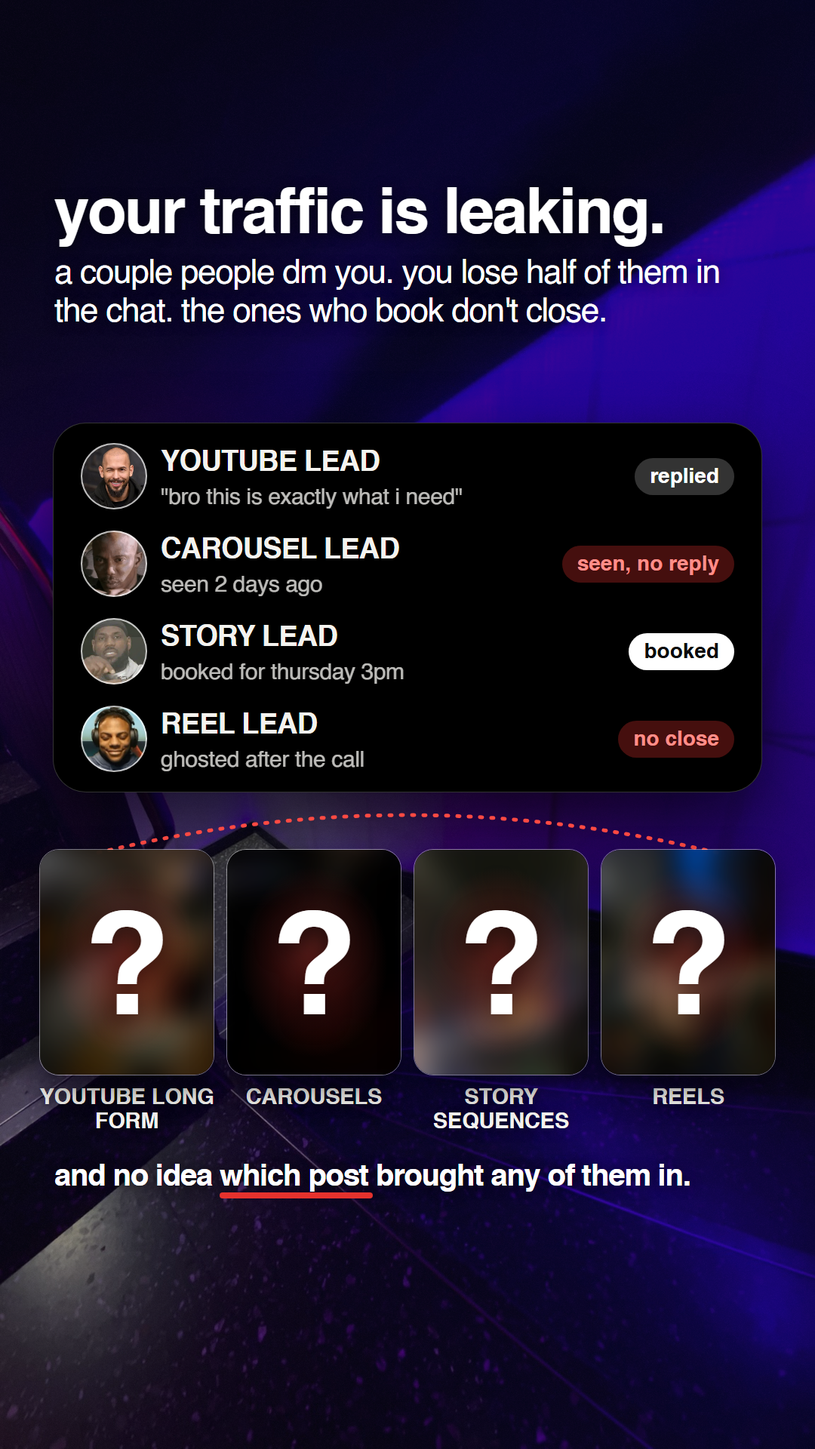
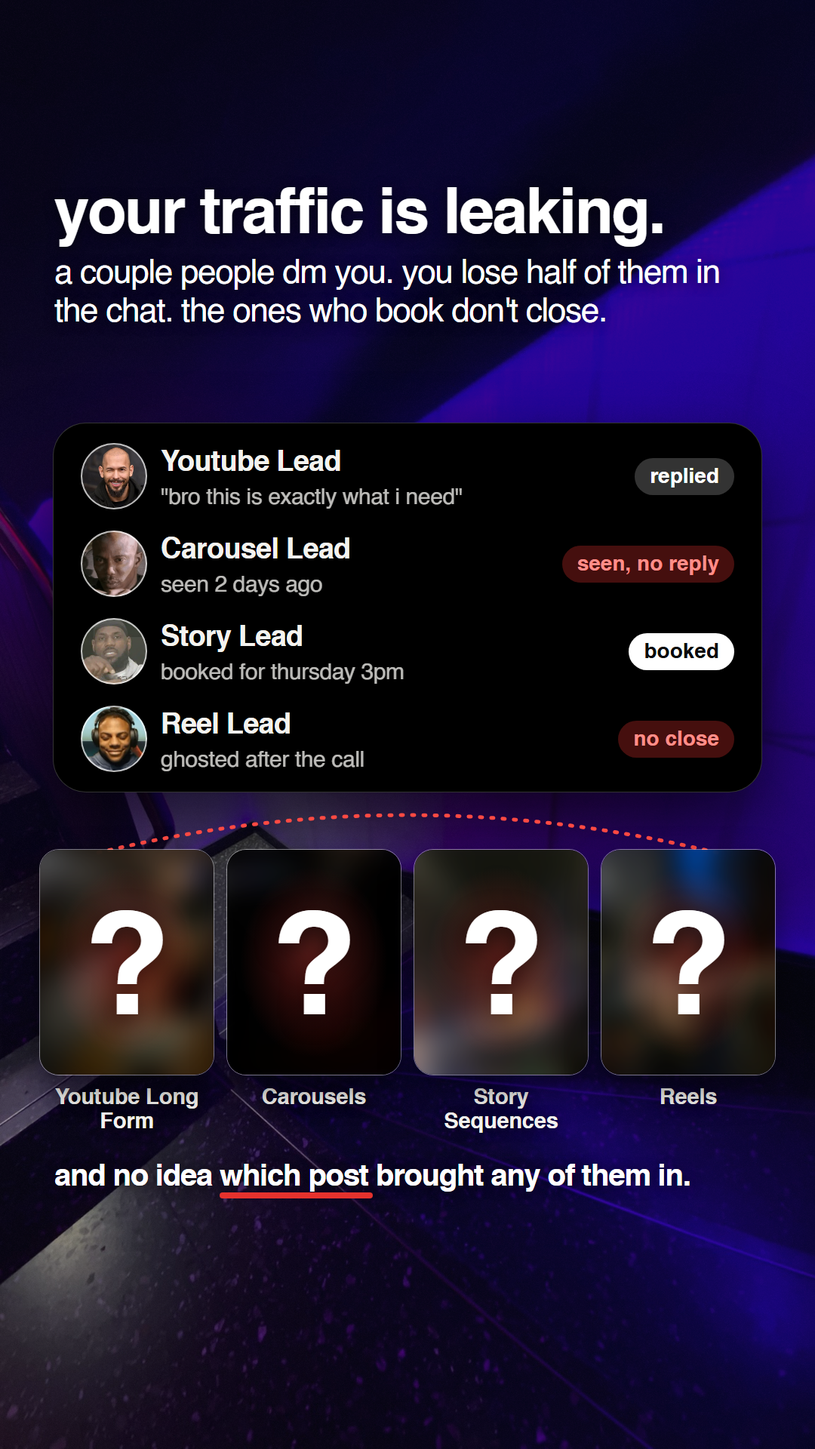
auto: checkpoint 2026-10-08 15:59:18

diff --git a/output/highlight-saas/claude-v2/r25_05.html b/output/highlight-saas/claude-v2/r25_05.html
@@ -1,0 +1,11 @@
+<!doctype html><meta charset="utf-8"><style>
+*{margin:0;padding:0;box-sizing:border-box}
+html,body{width:1080px;height:1920px;overflow:hidden;background:#000;font-family:Helvetica,Arial,sans-serif;color:#f4f3ef}
+.bg{position:absolute;inset:0;background-size:cover}
+.abs{position:absolute}
+.glow{position:absolute;inset:0;background:
+ radial-gradient(900px 700px at -8% 16%,rgba(138,75,63,.30),transparent 62%),
+ radial-gradient(900px 800px at 108% 66%,rgba(77,63,104,.26),transparent 60%)}
+b{font-weight:700}
+.label{font-size:28px;letter-spacing:.14em;text-transform:uppercase;color:#a9aaae;font-weight:700}
+</style><body><div class="bg" style="background-image:url('file:///C:/Users/Abdullah/Desktop/Pulsify-Brain/output/highlight-saas/claude-v2/img/r18_05.png')"></div><div class="abs" style="inset:0;background:rgba(11,12,13,.42)"></div><div class="abs" style="left:72px;top:236px;width:940px;"><div style="font-family:Helvetica,Arial,sans-serif;font-weight:700;color:#fff;font-size:84px;line-height:1.0;letter-spacing:-2.5px;margin-top:0px;text-shadow:0 2px 16px rgba(0,0,0,.55);">your traffic is leaking.</div><div style="font-family:Helvetica,Arial,sans-serif;font-weight:700;color:#fff;font-size:44px;line-height:1.16;letter-spacing:-1.3px;margin-top:14px;text-shadow:0 2px 16px rgba(0,0,0,.55);font-weight:400">a couple people dm you. you lose half of them in the chat. the ones who book don't close.</div></div><div class="abs" style="left:70px;top:560px;width:940px;"><div style="border-radius:44px;background:#000;border:1.5px solid rgba(255,255,255,.2);padding:12px 36px;box-shadow:0 40px 90px rgba(0,0,0,.6)"><div style="display:flex;align-items:center;gap:18px;padding:14px 0"><div style="width:88px;height:88px;border-radius:50%;background:#222 url(file:///C:/Users/Abdullah/Desktop/Pulsify-Brain/output/highlight-saas/claude-v2/img/av_6.png) 53% 38%/cover no-repeat;border:2px solid rgba(255,255,255,.7);flex:none;box-shadow:0 6px 16px rgba(0,0,0,.4)"></div><div style="flex:1"><div style="font-size:38px;font-weight:700;letter-spacing:-.8px;text-transform:capitalize">youtube lead</div><div style="font-size:30px;opacity:.78;margin-top:6px;letter-spacing:-.4px">"bro this is exactly what i need"</div></div><div style="padding:6px 20px 10px;border-radius:999px;background:rgba(255,255,255,.2);color:#fff;font-size:28px;font-weight:700;white-space:nowrap">replied</div></div><div style="display:flex;align-items:center;gap:18px;padding:14px 0"><div style="width:88px;height:88px;border-radius:50%;background:#222 url(file:///C:/Users/Abdullah/Desktop/Pulsify-Brain/output/highlight-saas/claude-v2/img/av_5.png) 56% 30%/190% no-repeat;border:2px solid rgba(255,255,255,.7);flex:none;box-shadow:0 6px 16px rgba(0,0,0,.4)"></div><div style="flex:1"><div style="font-size:38px;font-weight:700;letter-spacing:-.8px;text-transform:capitalize">carousel lead</div><div style="font-size:30px;opacity:.78;margin-top:6px;letter-spacing:-.4px">seen 2 days ago</div></div><div style="padding:6px 20px 10px;border-radius:999px;background:rgba(229,50,45,.3);color:#ff8e89;font-size:28px;font-weight:700;white-space:nowrap">seen, no reply</div></div><div style="display:flex;align-items:center;gap:18px;padding:14px 0"><div style="width:88px;height:88px;border-radius:50%;background:#222 url(file:///C:/Users/Abdullah/Desktop/Pulsify-Brain/output/highlight-saas/claude-v2/img/av_7.png) 50% 8%/135% no-repeat;border:2px solid rgba(255,255,255,.7);flex:none;box-shadow:0 6px 16px rgba(0,0,0,.4)"></div><div style="flex:1"><div style="font-size:38px;font-weight:700;letter-spacing:-.8px;text-transform:capitalize">story lead</div><div style="font-size:30px;opacity:.78;margin-top:6px;letter-spacing:-.4px">booked for thursday 3pm</div></div><div style="padding:6px 20px 10px;border-radius:999px;background:#fff;color:#0b0c0d;font-size:28px;font-weight:700;white-space:nowrap">booked</div></div><div style="display:flex;align-items:center;gap:18px;padding:14px 0"><div style="width:88px;height:88px;border-radius:50%;background:#222 url(file:///C:/Users/Abdullah/Desktop/Pulsify-Brain/output/highlight-saas/claude-v2/img/av_8.png) 50% 42%/cover no-repeat;border:2px solid rgba(255,255,255,.7);flex:none;box-shadow:0 6px 16px rgba(0,0,0,.4)"></div><div style="flex:1"><div style="font-size:38px;font-weight:700;letter-spacing:-.8px;text-transform:capitalize">reel lead</div><div style="font-size:30px;opacity:.78;margin-top:6px;letter-spacing:-.4px">ghosted after the call</div></div><div style="padding:6px 20px 10px;border-radius:999px;background:rgba(229,50,45,.3);color:#ff8e89;font-size:28px;font-weight:700;white-space:nowrap">no close</div></div></div></div><svg class="abs" style="left:0;top:1060px" width="1080" height="80" viewBox="0 0 1080 80"><path d="M130 70 Q 540 -30 950 70" fill="none" stroke="#ff4a43" stroke-width="5" stroke-dasharray="3 12" stroke-linecap="round"/></svg><div class="abs" style="left:30px;top:1125px;width:1020px;"><div style="display:flex;gap:16px;justify-content:center"><div style="width:232px"><div style="width:232px;height:300px;border-radius:26px;position:relative;overflow:hidden;border:1.5px solid rgba(255,255,255,.45);box-shadow:0 18px 40px rgba(0,0,0,.5)"><div style="position:absolute;inset:-30px;background:url(file:///C:/Users/Abdullah/Desktop/Pulsify-Brain/output/highlight-saas/claude-v2/img/r18_p0.png) center/cover;filter:blur(18px) brightness(.8)"></div><div style="position:absolute;inset:0;background:radial-gradient(closest-side,rgba(229,50,45,.35),transparent 85%)"></div><div style="position:absolute;inset:0;display:grid;place-items:center;font-size:190px;font-weight:700;color:#fff;text-shadow:0 6px 30px rgba(0,0,0,.5)">?</div></div><div style="text-align:center;font-size:29px;font-weight:700;letter-spacing:-.2px;line-height:1.1;margin-top:12px;text-shadow:0 2px 16px rgba(0,0,0,.55)">Youtube Long Form</div></div><div style="width:232px"><div style="width:232px;height:300px;border-radius:26px;position:relative;overflow:hidden;border:1.5px solid rgba(255,255,255,.45);box-shadow:0 18px 40px rgba(0,0,0,.5)"><div style="position:absolute;inset:-30px;background:url(file:///C:/Users/Abdullah/Desktop/Pulsify-Brain/output/highlight-saas/claude-v2/img/r18_p1.png) center/cover;filter:blur(18px) brightness(.8)"></div><div style="position:absolute;inset:0;background:radial-gradient(closest-side,rgba(229,50,45,.35),transparent 85%)"></div><div style="position:absolute;inset:0;display:grid;place-items:center;font-size:190px;font-weight:700;color:#fff;text-shadow:0 6px 30px rgba(0,0,0,.5)">?</div></div><div style="text-align:center;font-size:29px;font-weight:700;letter-spacing:-.2px;line-height:1.1;margin-top:12px;text-shadow:0 2px 16px rgba(0,0,0,.55)">Carousels</div></div><div style="width:232px"><div style="width:232px;height:300px;border-radius:26px;position:relative;overflow:hidden;border:1.5px solid rgba(255,255,255,.45);box-shadow:0 18px 40px rgba(0,0,0,.5)"><div style="position:absolute;inset:-30px;background:url(file:///C:/Users/Abdullah/Desktop/Pulsify-Brain/output/highlight-saas/claude-v2/img/r18_p2.png) center/cover;filter:blur(18px) brightness(.8)"></div><div style="position:absolute;inset:0;background:radial-gradient(closest-side,rgba(229,50,45,.35),transparent 85%)"></div><div style="position:absolute;inset:0;display:grid;place-items:center;font-size:190px;font-weight:700;color:#fff;text-shadow:0 6px 30px rgba(0,0,0,.5)">?</div></div><div style="text-align:center;font-size:29px;font-weight:700;letter-spacing:-.2px;line-height:1.1;margin-top:12px;text-shadow:0 2px 16px rgba(0,0,0,.55)">Story Sequences</div></div><div style="width:232px"><div style="width:232px;height:300px;border-radius:26px;position:relative;overflow:hidden;border:1.5px solid rgba(255,255,255,.45);box-shadow:0 18px 40px rgba(0,0,0,.5)"><div style="position:absolute;inset:-30px;background:url(file:///C:/Users/Abdullah/Desktop/Pulsify-Brain/output/highlight-saas/claude-v2/img/r18_p3.png) center/cover;filter:blur(18px) brightness(.8)"></div><div style="position:absolute;inset:0;background:radial-gradient(closest-side,rgba(229,50,45,.35),transparent 85%)"></div><div style="position:absolute;inset:0;display:grid;place-items:center;font-size:190px;font-weight:700;color:#fff;text-shadow:0 6px 30px rgba(0,0,0,.5)">?</div></div><div style="text-align:center;font-size:29px;font-weight:700;letter-spacing:-.2px;line-height:1.1;margin-top:12px;text-shadow:0 2px 16px rgba(0,0,0,.55)">Reels</div></div></div></div><div class="abs" style="left:72px;top:1535px;width:960px;"><div style="font-family:Helvetica,Arial,sans-serif;font-weight:700;color:#fff;font-size:40px;line-height:1.1;letter-spacing:-1.2px;margin-top:0px;text-shadow:0 2px 16px rgba(0,0,0,.55);">and no idea <span style="position:relative;display:inline-block">which post<span style="position:absolute;left:0;right:-6px;bottom:-9px;height:8px;background:#e5322d;border-radius:4px"></span></span> brought any of them in.</div></div></body>

diff --git a/output/highlight-saas/claude-v2/slides_r25.py b/output/highlight-saas/claude-v2/slides_r25.py
@@ -1,0 +1,225 @@
+"""Round 8 (founder notes after round 7). Overrides on slides_r7: slide 2 bullets + one-line copy, red chart on 3, no splitters on 4,
+reworded 5 with alias inbox, sans 7, flat 8, 'yo' greeting on 10, stacked red-wash 11, flat red tracking 12, logo-free 13/14,
+subtle logo as the first layer under everything else. Run: python slides_r8.py [02 03 ...]"""
+import sys
+from engine import *
+import slides_r7 as R7
+import slides_r5 as R5
+from slides_r7 import *
+from slides_r6 import brand, pngtile, coin, MARKU
+from slides_r5 import bz, rul, redw, carry, dim_photo, SH, SANS
+from slides_r4 import U, bgdiv, top, bottom, check_, xmark_
+import slides_r4 as R4
+
+RED2 = '#ff4a43'
+
+
+def logo_layer(body):
+    """Subtle logo as the first layer above the photo, below everything else."""
+    i = body.index('</div>') + len('</div>')
+    return body
+
+
+def ulb(t, size=52, weight=700, color='#fff'):
+    return (f'<span style="position:relative;display:inline-block;font-size:{size}px;font-weight:{weight};letter-spacing:{-size*.03:.1f}px;color:{color}">{t}'
+            f'<span style="position:absolute;left:0;right:0;bottom:-8px;height:7px;background:{RG};border-radius:4px"></span></span>')
+
+
+# ------------------------------------------------------------------ 02
+def s02():
+    img = prep_photo(20, 'r18_02.png', focus=(.5, .5))
+    bullets = ''.join(f'<div style="display:flex;align-items:center;gap:16px;margin-top:20px"><div style="width:14px;height:14px;border-radius:50%;background:{RED};flex:none"></div>{ulb(t, 46)}</div>'
+                      for t in ('trading', 'tiktok shop', 'e-commerce', 'amazon fba'))
+    # info groups, bigger instagram glyph
+    size = 128
+    yt = brand('youtube', '#FF0000', size=size)
+    ig = brand('instagram', 'linear-gradient(45deg,#f9a03f,#e1306c,#833ab4)', size=size).replace('width="74" height="74"', 'width="104" height="104"')
+    cal = brand('caldotcom', '#111827', size=size)
+    pay = [brand('stripe', '#635BFF', size=size), pngtile(U('whop.png'), size), pngtile(U('fanbasis.png'), size)]
+    groups = [(fan([yt, ig], size), 'content + audience'), (fan([cal, brand('calendly', '#006BFF', size=size)], size), 'sales calls'), (fan(pay, size, w=int(size * 2.05)), 'payments')]
+    info = '<div style="display:flex;gap:34px;align-items:flex-start">' + ''.join(f'<div>{g}<div style="text-align:center;margin-top:10px">{ulb(c, 28, 700)}</div></div>' for g, c in groups) + '</div>'
+    body = bgdiv(img) + top(1100, .7) + bottom(1000, .64)
+    body += at(236, f'<div style="font-size:78px;line-height:1.04;font-weight:700;letter-spacing:-3px;{SH}">you\'re already {R5.rul("good")} at<br>what you do.</div>', width=940)
+    body += at(440, bullets)
+    body += at(800, bz("running your own offer, teaching people exactly what you do, will make you more money than the thing you do now.", 44, lh=1.18, extra='font-weight:400'), width=940)
+    body += at(1030, f'<div style="font-size:50px;font-weight:700;letter-spacing:-2px;white-space:nowrap;{SH}">but {ulb("info is a whole business", 50)} on its own.</div>'
+               + bz("your own offer. your own unique mechanism. your own positioning.", 34, 12, extra='font-weight:400'), width=980)
+    body += at(1210, info)
+    body += at(1510, f'<div style="font-size:46px;font-weight:700;letter-spacing:-1.6px;white-space:nowrap;{SH}">so now you\'re running {ulb("2 businesses", 46)} at once.</div>', width=990)
+    return logo_layer(body)
+
+
+# ------------------------------------------------------------------ 03 (red chart)
+def revenue_red():
+    pts = [(0, 80), (10, 74), (20, 70), (30, 58), (40, 60), (50, 44), (60, 38), (70, 40), (80, 22), (90, 18), (100, 8)]
+    Wc, Hc = 860, 120
+    xy = lambda a, b: (a / 100 * Wc, b / 100 * Hc)
+    path = 'M' + ' L'.join(f'{xy(a,b)[0]:.0f} {xy(a,b)[1]:.0f}' for a, b in pts)
+    bars = ''.join(f'<rect x="{i*43+6}" y="{Hc-20-(8+ (i*7)%34)}" width="26" height="{8+(i*7)%34}" rx="5" fill="rgba(255,255,255,.14)"/>' for i in range(20))
+    return (f'<svg width="{Wc}" height="{Hc+10}" viewBox="0 0 {Wc} {Hc+10}"><defs><linearGradient id="rr" x1="0" y1="0" x2="0" y2="1"><stop offset="0" stop-color="{RED2}" stop-opacity=".55"/><stop offset="1" stop-color="{RED2}" stop-opacity="0"/></linearGradient></defs>{bars}'
+            f'<path d="{path} L{Wc} {Hc} L0 {Hc} Z" fill="url(#rr)"/><path d="{path}" fill="none" stroke="{RED2}" stroke-width="6" stroke-linecap="round" stroke-linejoin="round"/></svg>')
+
+
+def s03():
+    R7.revenue_card = revenue_red
+    return logo_layer(R7.s03())
+
+
+# ------------------------------------------------------------------ 04 (no splitters)
+def s04():
+    img = dim_photo(27, 'r18_04.png', blur=9, dark=.55)
+    items = ["you want to post, but you don't know what to say", "you know what to say, but nobody's watching",
+             "people are watching, but you don't know where to send them", "calls are booked, but you can't tell who's closing and who isn't"]
+    rows = ''.join(f'<div style="display:flex;gap:26px;align-items:flex-start;padding:24px 0">{xmark_(RED)}'
+                   f'<div style="font-size:48px;line-height:1.18;letter-spacing:-1.2px;font-weight:700;width:820px;{SH}">{t}</div></div>' for t in items)
+    body = bgdiv(img) + carry(R7.s03_carry(), 8, .2)
+    body += '<div class="abs" style="inset:0;background:radial-gradient(900px 700px at 100% 100%,rgba(229,50,45,.4),transparent 62%)"></div>'
+    body += at(440, f'<div style="font-size:112px;line-height:1;font-weight:700;letter-spacing:-4.4px;{SH}">it {rbox("breaks", 112, "0 24px 16px", 18)}<br>somewhere:</div>', width=940)
+    body += at(790, rows, width=936)
+    return logo_layer(body)
+
+
+# ------------------------------------------------------------------ 05 (alias inbox + bigger posts)
+SMAP = {'youtube lead': '"bro this is exactly what i need"', 'carousel lead': 'seen 2 days ago', 'story lead': 'booked for thursday 3pm', 'reel lead': 'ghosted after the call'}
+
+
+def s05():
+    img = prep_photo(38, 'r18_05.png', focus=(.5, .5))
+    people = [('youtube lead', 'replied', 'rgba(255,255,255,.2)', '#fff', '#4b5160'), ('carousel lead', 'seen, no reply', 'rgba(229,50,45,.3)', '#ff8e89', '#6a3a3a'),
+              ('story lead', 'booked', '#fff', GRAPH, '#3d4d44'), ('reel lead', 'no close', 'rgba(229,50,45,.3)', '#ff8e89', '#4b4b5c')]
+    grads = {'youtube lead': ('#ff4a43', '#8f1511', '#fff'), 'carousel lead': ('#5fd6a4', '#1f7a56', '#0b0c0d'),
+             'story lead': ('#ffffff', '#8a8d99', '#0b0c0d'), 'reel lead': ('#c9201b', '#1a0707', '#fff')}
+    rows = ''
+    for al, st, bg, fg, avc in people:
+        pic = {'youtube lead': ('av_6.png', '53% 38%', 'cover'), 'carousel lead': ('av_5.png', '56% 30%', '190%'),
+               'story lead': ('av_7.png', '50% 8%', '135%'), 'reel lead': ('av_8.png', '50% 42%', 'cover')}[al]
+        rows += (f'<div style="display:flex;align-items:center;gap:18px;padding:14px 0"><div style="width:88px;height:88px;border-radius:50%;background:#222 url(file:///C:/Users/Abdullah/Desktop/Pulsify-Brain/output/highlight-saas/claude-v2/img/{pic[0]}) {pic[1]}/{pic[2]} no-repeat;'
+                 f'border:2px solid rgba(255,255,255,.7);flex:none;box-shadow:0 6px 16px rgba(0,0,0,.4)"></div>'
+                 f'<div style="flex:1"><div style="font-size:38px;font-weight:700;letter-spacing:-.8px;text-transform:capitalize">{al}</div><div style="font-size:30px;opacity:.78;margin-top:6px;letter-spacing:-.4px">{SMAP[al]}</div></div>'
+                 f'<div style="padding:6px 20px 10px;border-radius:999px;background:{bg};color:{fg};font-size:28px;font-weight:700;white-space:nowrap">{st}</div></div>')
+    labels = ['Youtube Long Form', 'Carousels', 'Story Sequences', 'Reels']
+    posts = ''
+    for i, (pid, lb) in enumerate(zip((20, 31, 37, 41), labels)):
+        pth = prep_photo(pid, f'r18_p{i}.png', focus=(.5, .5))
+        posts += (f'<div style="width:232px"><div style="width:232px;height:300px;border-radius:26px;position:relative;overflow:hidden;border:1.5px solid rgba(255,255,255,.45);box-shadow:0 18px 40px rgba(0,0,0,.5)">'
+                  f'<div style="position:absolute;inset:-30px;background:url(file:///{pth}) center/cover;filter:blur(18px) brightness(.8)"></div>'
+                  f'<div style="position:absolute;inset:0;background:radial-gradient(closest-side,rgba(229,50,45,.35),transparent 85%)"></div>'
+                  f'<div style="position:absolute;inset:0;display:grid;place-items:center;font-size:190px;font-weight:700;color:#fff;text-shadow:0 6px 30px rgba(0,0,0,.5)">?</div></div>'
+                  f'<div style="text-align:center;font-size:29px;font-weight:700;letter-spacing:-.2px;line-height:1.1;margin-top:12px;{SH}">{lb}</div></div>')
+    body = bgdiv(img) + '<div class="abs" style="inset:0;background:rgba(11,12,13,.42)"></div>'
+    body += at(236, bz("your traffic is leaking.", 84, lh=1.0) + bz("a couple people dm you. you lose half of them in the chat. the ones who book don't close.", 44, 14, lh=1.16, extra='font-weight:400'), width=940)
+    body += at(560, f'<div style="border-radius:44px;background:#000;border:1.5px solid rgba(255,255,255,.2);padding:12px 36px;box-shadow:0 40px 90px rgba(0,0,0,.6)">{rows}</div>', left=70, width=940)
+    body += (f'<svg class="abs" style="left:0;top:1060px" width="1080" height="80" viewBox="0 0 1080 80"><path d="M130 70 Q 540 -30 950 70" fill="none" stroke="#ff4a43" stroke-width="5" stroke-dasharray="3 12" stroke-linecap="round"/></svg>')
+    body += at(1125, f'<div style="display:flex;gap:16px;justify-content:center">{posts}</div>', left=30, width=1020)
+    body += at(1535, bz("and no idea " + rul("which post") + " brought any of them in.", 40, lh=1.1), width=960)
+    return logo_layer(body)
+
+
+# ------------------------------------------------------------------ 07 (sans, visible)
+def s07():
+    img = prep_photo(26, 'r18_07.png', focus=(.5, .5))
+    body = bgdiv(img) + top(1300, .75)
+    body += at(250, bz("that's where most people", 74, lh=1.04) + bz(rul("plateau."), 118, 4, lh=1.0, extra='letter-spacing:-5px'), width=960)
+    body += at(640, bz("then they pick the " + redw("main business") + ", because that's what keeps food on the table.", 50, lh=1.14), width=930)
+    body += at(930, bz("and the info side " + rul("dies quietly."), 62, lh=1.1), width=930)
+    body += at(1130, bz("none of that is your fault.", 60, lh=1.1), width=930)
+    return logo_layer(body)
+
+
+# ------------------------------------------------------------------ 08 (flat)
+def s08():
+    img = dim_photo(26, 'r18_08.png', blur=9, dark=.5)
+    def row(rank, wname, num, hot=False):
+        if hot:
+            return (f'<div style="display:flex;align-items:center;gap:20px;border-radius:26px;padding:14px 24px;margin-top:16px;background:linear-gradient(90deg,rgba(229,50,45,.45),rgba(229,50,45,.1));border:2px solid {RED}">'
+                    f'<div style="font-size:34px;font-weight:700;width:60px">new</div><div style="flex:1;font-size:26px;font-weight:700;color:#ffb3af">new face &middot; new idea</div>'
+                    f'<div style="font-size:42px;font-weight:700;letter-spacing:-1.5px">2k <span style="color:{RED2}">&rarr; 18k+</span></div></div>')
+        return (f'<div style="display:flex;align-items:center;gap:20px;padding:12px 8px;border-bottom:1.5px solid rgba(255,255,255,.12)"><div style="font-size:34px;font-weight:700;width:60px;opacity:.7">{rank}</div>'
+                f'<div style="flex:1"><div style="height:14px;width:{wname}%;background:rgba(255,255,255,.55);border-radius:7px"></div></div>'
+                f'<div style="font-size:42px;font-weight:700;letter-spacing:-1.5px;opacity:.9">{num}</div></div>')
+    inner = ('<div style="font-size:26px;font-weight:700;letter-spacing:.14em;text-transform:uppercase;opacity:.7;margin-bottom:6px">top of your niche</div>'
+             + row('#1', 54, '1.4M') + row('#2', 46, '980k') + row('#3', 50, '760k') + row('#4', 42, '540k')
+             + '<div style="display:flex;align-items:center;gap:14px;margin:16px 0 0 70px;opacity:.75"><div style="flex:1;border-top:3px dashed rgba(255,255,255,.4)"></div><div style="font-size:24px;font-weight:700">every month</div><div style="flex:1;border-top:3px dashed rgba(255,255,255,.4)"></div></div>'
+             + row('', 0, '', True))
+    body = bgdiv(img) + top(700, .6)
+    body += '<div class="abs" style="inset:0;background:radial-gradient(900px 600px at 0% 0%,rgba(229,50,45,.35),transparent 62%)"></div>'
+    body += at(232, f'<div style="font-size:84px;line-height:1.02;font-weight:700;letter-spacing:-3.2px;{SH}">here\'s what<br>{rbox("most people miss.", 84, "0 22px 14px", 16)}</div>' + bz("the top of every niche is 3 or 4 names.", 46, 22, extra='font-weight:400'), width=960)
+    body += at(640, inner, width=936)
+    body += at(1190, bz("but every month, a new face breaks in.", 54, lh=1.08)
+               + bz("people follow someone they don't feel " + rul("below."), 52, 26, lh=1.1)
+               + f'<div style="margin-top:26px;font-size:58px;font-weight:700;letter-spacing:-2px;line-height:1.15;{SH}">you don\'t have to be a guru.<br>you just have to sound like {rbox("you.", 58, "0 20px 12px")}</div>', width=960)
+    return logo_layer(body)
+
+
+# ------------------------------------------------------------------ 10 (yo)
+def s10():
+    body = R7.s10().replace('hey, how can i help you today?', 'yo, what are we cooking today?')
+    return logo_layer(body)
+
+
+# ------------------------------------------------------------------ 11 (stacked, red wash, flat)
+def s11():
+    img = dim_photo(49, 'r18_11.png', focus=(.72, .5), blur=8, dark=.55)
+    rows = ''
+    for lab_, line, cash, wd in (('setter', '312 dms &middot; 58 calls booked', '', 100), ('setter', '287 dms &middot; 49 calls booked', '', 84), ('closer', '78 calls &middot; 79% showed &middot; 23% closed', '', 100)):
+        rows += (f'<div style="display:flex;align-items:center;gap:20px;margin-top:24px"><div style="width:58px;height:58px;border-radius:50%;background:rgba(255,255,255,.14);border:1.5px solid rgba(255,255,255,.5);display:grid;place-items:center;flex:none">'
+                 f'<svg width="32" height="32" viewBox="0 0 38 38"><circle cx="19" cy="14" r="7" fill="#fff"/><path d="M5 34q14-22 28 0z" fill="#fff"/></svg></div>'
+                 f'<div style="flex:1"><div style="font-size:32px;font-weight:700;letter-spacing:-.6px">{lab_}</div><div style="font-size:25px;opacity:.8;margin-top:3px">{line}</div>'
+                 f'<div style="height:9px;border-radius:5px;background:rgba(255,255,255,.14);margin-top:9px"><div style="height:9px;border-radius:5px;width:{wd}%;background:{RG}"></div></div></div></div>')
+    body = bgdiv(img)
+    body += '<div class="abs" style="inset:0;background:radial-gradient(1000px 800px at 100% 55%,rgba(229,50,45,.5),transparent 62%),radial-gradient(800px 600px at 0% 100%,rgba(229,50,45,.3),transparent 60%)"></div>'
+    body += at(236, bz("then the sales side.", 84, lh=1.0)
+               + f'<div style="display:flex;gap:18px;align-items:center;margin-top:24px">{check_(GREEN)}{bz("you see who\'s closing.", 50)}</div>'
+               + f'<div style="display:flex;gap:18px;align-items:center;margin-top:10px">{xmark_(RED)}{bz("who\'s " + rul("not."), 50)}</div>', width=940)
+    body += at(640, f'<div style="display:flex;align-items:center;gap:16px">{coin(54)}<div style="font-size:36px;font-weight:700;letter-spacing:-.8px">sales</div></div>{rows}', width=936)
+    body += at(1120, f'<div style="font-size:44px;font-weight:700;letter-spacing:-1px;opacity:.9">CC</div><div style="font-size:150px;font-weight:700;letter-spacing:-7px;color:{RED2};line-height:.95;text-shadow:0 0 70px rgba(229,50,45,.7)">$96,000</div>', width=960)
+    bi11 = lambda x: f'<div style="display:flex;gap:16px;align-items:center;margin-top:12px"><div style="width:14px;height:14px;border-radius:50%;background:{RED};flex:none"></div><div style="font-size:50px;font-weight:400;font-style:italic;letter-spacing:-1.2px;{SH}">{x}</div></div>'
+    body += at(1440, bi11("who's hitting their calls?") + bi11("who's hitting your numbers?") + bz("no more guessing what happened on a call. no scripts to write yourself.", 34, 22, lh=1.2, extra='font-weight:400'), width=940)
+    return logo_layer(body)
+
+
+# ------------------------------------------------------------------ 12 (flat, red)
+def s12():
+    img = dim_photo(49, 'r18_12.png', focus=(.72, .5), blur=8, dark=.6)
+    pts = [(0, 100), (12, 86), (25, 71), (40, 60), (55, 52), (70, 41), (85, 34), (100, 31)]
+    Wc, Hc = 936, 250
+    xy = lambda a, b: (a / 100 * Wc, 20 + (100 - b) / 100 * (Hc - 40))
+    path = 'M' + ' L'.join(f'{xy(a, b)[0]:.0f} {xy(a, b)[1]:.0f}' for a, b in pts)
+    chart = (f'<svg width="{Wc}" height="{Hc+40}" viewBox="0 0 {Wc} {Hc+40}"><defs><linearGradient id="g" x1="0" y1="0" x2="0" y2="1"><stop offset="0" stop-color="{RED2}" stop-opacity=".6"/><stop offset="1" stop-color="{RED2}" stop-opacity="0"/></linearGradient></defs>'
+             f'<path d="{path} L{Wc} {Hc-20} L0 {Hc-20} Z" fill="url(#g)"/><path d="{path}" fill="none" stroke="{RED2}" stroke-width="9" stroke-linecap="round" stroke-linejoin="round"/>'
+             + ''.join(f'<line x1="{x}" y1="10" x2="{x}" y2="{Hc-20}" stroke="rgba(255,255,255,.14)" stroke-width="2"/><text x="{x if 0<x<Wc-5 else (6 if x==0 else Wc-6)}" y="{Hc+22}" text-anchor="{"middle" if 0<x<Wc-5 else ("start" if x==0 else "end")}" font-family="Helvetica,Arial" font-size="26" fill="rgba(255,255,255,.7)">{l}</text>' for x, l in ((0, 'start'), (234, '25%'), (468, '50%'), (702, '75%'), (Wc, 'end')))
+             + '</svg>')
+    stats = ''.join(f'<div style="flex:1"><div style="display:inline-block;font-size:66px;font-weight:700;letter-spacing:-2.5px;line-height:1;color:{c};{'background:#fff;padding:2px 14px 8px;border-radius:14px;' if c == GRAPH else ''}">{v}</div><div style="font-size:23px;font-weight:700;letter-spacing:.08em;text-transform:uppercase;opacity:.75;margin-top:6px">{l}</div></div>'
+                    for v, l, c in (('41.2k', 'watched', '#fff'), ('3.8k', 'clicked', '#fff'), ('212', 'booked', '#fff'), ('$64k', 'paid', GRAPH)))
+    bl = lambda t: f'<div style="margin-top:10px">{rbox(t, 40, "2px 20px 12px", 12)}</div>'
+    bi = lambda t: f'<div style="display:flex;gap:16px;align-items:center;margin-top:14px"><div style="width:14px;height:14px;border-radius:50%;background:{RED};flex:none"></div><div style="font-size:48px;font-weight:400;font-style:italic;letter-spacing:-1.4px;{SH}">{t}</div></div>'
+    body = bgdiv(img)
+    body += '<div class="abs" style="inset:0;background:radial-gradient(1000px 800px at 100% 40%,rgba(229,50,45,.45),transparent 62%)"></div>'
+    body += at(236, f'<div style="font-size:84px;line-height:1.04;font-weight:700;letter-spacing:-3.2px;{SH}">every post is<br>{rbox("tracked.", 84, "0 24px 14px", 16)}</div>' + bl("watched") + bl("clicked") + bl("booked") + bl("paid"), width=940)
+    body += at(790, f'<div style="display:flex;align-items:center;gap:16px">{coin(50)}<div><div style="font-size:23px;font-weight:700;letter-spacing:.1em;text-transform:uppercase;opacity:.7">youtube video tracking</div>'
+                    f'<div style="font-size:30px;font-weight:700;letter-spacing:-.8px;margin-top:2px">how i would start from zero</div></div></div><div style="margin-top:6px">{chart}</div><div style="display:flex;gap:10px;margin-top:10px">{stats}</div>', width=936)
+    body += at(1440, f'<div style="display:inline-block;position:relative;font-size:42px;font-weight:400;letter-spacing:-1px;{SH}">everything is tracked to the brim:<span style="position:absolute;left:0;right:0;bottom:-10px;height:9px;background:{RED};border-radius:4px"></span></div>' + bi("where they are") + bi("how they land") + bi("when they first start watching")
+              + bz("all the way until they buy from you, and we keep retargeting them until they buy again.", 30, 16, lh=1.15, extra='font-weight:400'), width=960)
+    return logo_layer(body)
+
+
+# ------------------------------------------------------------------ 13 / 14 (no logo, red wash)
+def wash2():
+    return '<div class="abs" style="inset:0;background:radial-gradient(900px 700px at 0% 100%,rgba(229,50,45,.5),transparent 62%),radial-gradient(800px 700px at 100% 0%,rgba(229,50,45,.28),transparent 60%)"></div>'
+
+
+def s13_body9():
+    return at(262, bz("none of this was built overnight.", 90, lh=1.02)
+              + f'<div style="margin-top:38px;font-size:56px;font-weight:700;letter-spacing:-1.8px;line-height:1.1;{SH}">{ulb("every framework was tested first.", 56)}</div>'
+              + bz("it's a one-place stop that does the heavy lifting.", 44, 40, extra='font-weight:400')
+              + f'<div style="margin-top:14px;font-size:50px;font-weight:700;letter-spacing:-1.6px;{SH}">{ulb("you keep doing what you\'re good at.", 50)}</div>', width=940)
+
+
+def s13():
+    return bgdiv(prep_photo(18, 'r18_13.png', focus=(.5, .5))) + top(900, .62) + wash2() + s13_body9()
+
+
+SL = {'02': s02, '03': s03, '04': s04, '05': s05, '07': s07, '08': s08, '10': s10, '11': s11, '12': s12, '13': s13}
+if __name__ == '__main__':
+    for n in (sys.argv[1:] or list(SL)):
+        render('r25_' + n, page(SL[n]()))

diff --git a/AGENT_CHAT.md b/AGENT_CHAT.md
@@ -513,3 +513,4 @@ Founder: undo the G1 rebuild. g06-g08 + g1style.py moved to claude-v2/archive-re
 - 2026-10-08 Claude: slide 5 final = photo avatars + capitalized source-label names (slides_r21.py), final-r16/05.png; initials version kept as 05-initials.png; wiki updated.
 - 2026-10-08 Claude: slide 5 text sizes enlarged (slides_r23.py); final-r16/05.png updated.
 - 2026-10-08 Claude: slide 5 = black inbox card, original-size post squares (slides_r24.py); final-r16/05.png updated.
+- 2026-10-08 Claude: slide 5 names and post labels in Title Case (slides_r25.py); final-r16/05.png updated.
